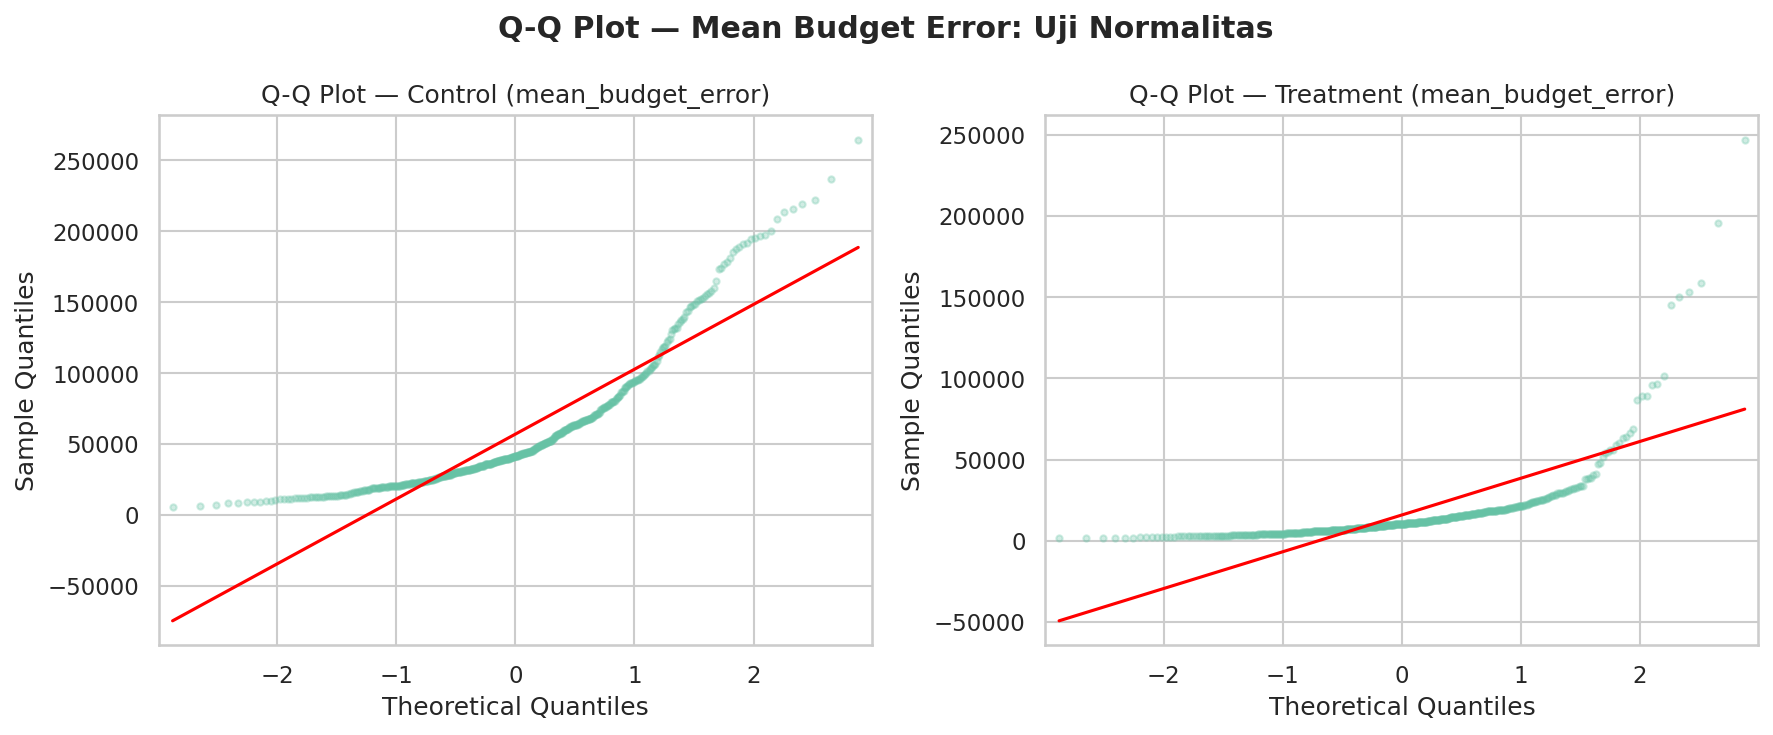
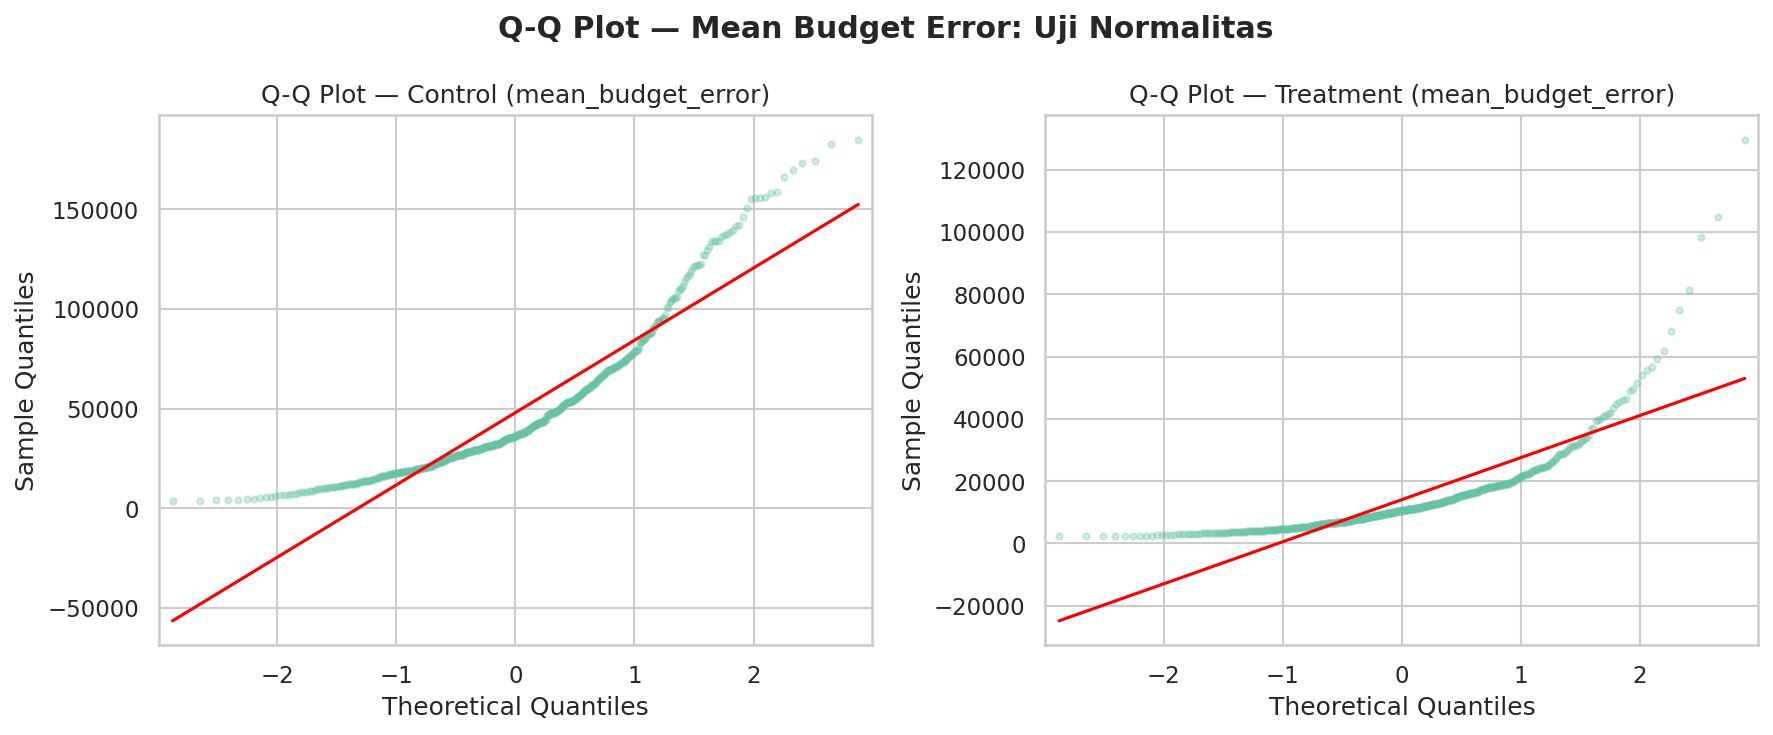
feat: rewrite A/B Testing Income Predictor budgeting report and charts

diff --git a/outputs/reports/ab_testing_income_predictor_budgeting_report.md b/outputs/reports/ab_testing_income_predictor_budgeting_report.md
@@ -52,18 +52,18 @@ membuat budget manual berdasarkan rata-rata income historis.
 | Metrik | Control | Treatment |
 |--------|---------|-----------|
 | N | 1,502 | 1,498 |
-| Mean Budget Error | Rp 56rb | Rp 15rb |
-| Median Budget Error | Rp 41rb | Rp 10rb |
-| Std Dev Budget Error | Rp 45rb | Rp 20rb |
-| Absolute Diff (T-C) | — | Rp -40rb |
-| Relative Change | — | -72.43% |
+| Mean Budget Error | Rp 47rb | Rp 14rb |
+| Median Budget Error | Rp 36rb | Rp 10rb |
+| Std Dev Budget Error | Rp 36rb | Rp 13rb |
+| Absolute Diff (T-C) | — | Rp -33rb |
+| Relative Change | — | -70.14% |
 
 ## 5. Secondary Metric: budget_adherence_rate
 
 | Metrik | Control | Treatment | Diff |
 |--------|---------|-----------|------|
-| Budget Adherence Rate | 44.91% | 42.21% | -2.70pp |
-| Over-Budget Rate | 55.09% | 57.79% | — |
+| Budget Adherence Rate | 46.17% | 43.19% | -2.98pp |
+| Over-Budget Rate | 53.83% | 56.81% | — |
 
 > **Interpretasi**: Jika budget adherence Treatment lebih rendah dari Control, hal ini tidak
 > berarti Income Predictor gagal. Akurasi budget (mean_budget_error) tidak otomatis mengubah
@@ -74,9 +74,9 @@ membuat budget manual berdasarkan rata-rata income historis.
 
 | Uji | Statistic | p-value | Hasil |
 |-----|-----------|---------|-------|
-| Shapiro-Wilk (Control) | 0.8173 | 0.000000 | Tidak Normal |
-| Shapiro-Wilk (Treatment) | 0.4756 | 0.000000 | Tidak Normal |
-| Levene | 415.8148 | 0.000000 | Tidak Homogen |
+| Shapiro-Wilk (Control) | 0.8603 | 0.000000 | Tidak Normal |
+| Shapiro-Wilk (Treatment) | 0.6782 | 0.000000 | Tidak Normal |
+| Levene | 538.1740 | 0.000000 | Tidak Homogen |
 
 > Uji utama yang dipilih: **Mann-Whitney U** (berdasarkan hasil uji asumsi di atas)
 
@@ -84,15 +84,15 @@ membuat budget manual berdasarkan rata-rata income historis.
 
 | Uji | Statistic | p-value | Keputusan | Peran |
 |-----|-----------|---------|-----------|-------|
-| Mann-Whitney U (alternative=less) | 229456 | 0.000000 | Tolak H0 | **Utama** |
-| Welch t-test (one-tailed: T < C) | -31.6231 | 0.000000 | Tolak H0 | Pendukung |
+| Mann-Whitney U (alternative=less) | 288517 | 0.000000 | Tolak H0 | **Utama** |
+| Welch t-test (one-tailed: T < C) | -33.3843 | 0.000000 | Tolak H0 | Pendukung |
 
 ## 8. Effect Size & Confidence Interval
 
-- **Cohen's d** = -1.1546 → Efek Besar (Treatment lebih baik (d negatif = budget error lebih rendah))
-- **Absolute Difference** (T-C) = Rp -40rb
-- **Relative Change** = -72.43%
-- **95% CI (Welch)**: [Rp -43rb, Rp -38rb]
+- **Cohen's d** = -1.2188 → Efek Besar (Treatment lebih baik (d negatif = budget error lebih rendah))
+- **Absolute Difference** (T-C) = Rp -33rb
+- **Relative Change** = -70.14%
+- **95% CI (Welch)**: [Rp -35rb, Rp -31rb]
 - **CI Interpretation**: Seluruh CI negatif → Treatment secara statistik memiliki budget error lebih rendah.
 
 ## 9. Power Analysis
@@ -105,18 +105,18 @@ membuat budget manual berdasarkan rata-rata income historis.
 
 | Gig Type | n_ctrl | n_treat | BE Control | BE Treatment | Rel Reduction | MW p | Indikasi |
 |----------|--------|---------|------------|--------------|---------------|------|----------|
-| content_creator | 139 | 138 | Rp 54rb | Rp 13rb | -76.7% | 0.0000 | positif |
-| freelance_desain | 230 | 229 | Rp 81rb | Rp 21rb | -73.4% | 0.0000 | positif |
-| freelance_it | 180 | 180 | Rp 108rb | Rp 28rb | -74.4% | 0.0000 | positif |
-| jualan_online | 248 | 248 | Rp 36rb | Rp 10rb | -72.1% | 0.0000 | positif |
-| kurir | 113 | 112 | Rp 36rb | Rp 11rb | -68.3% | 0.0000 | positif |
-| ojek_online | 115 | 114 | Rp 37rb | Rp 11rb | -69.2% | 0.0000 | positif |
-| pekerja_harian | 249 | 249 | Rp 44rb | Rp 13rb | -70.3% | 0.0000 | positif |
-| tutor | 228 | 228 | Rp 45rb | Rp 14rb | -69.2% | 0.0000 | positif |
+| content_creator | 139 | 138 | Rp 42rb | Rp 10rb | -75.3% | 0.0000 | positif |
+| freelance_desain | 230 | 229 | Rp 64rb | Rp 19rb | -71.0% | 0.0000 | positif |
+| freelance_it | 180 | 180 | Rp 84rb | Rp 23rb | -72.0% | 0.0000 | positif |
+| jualan_online | 248 | 248 | Rp 33rb | Rp 10rb | -70.1% | 0.0000 | positif |
+| kurir | 113 | 112 | Rp 32rb | Rp 11rb | -66.0% | 0.0000 | positif |
+| ojek_online | 115 | 114 | Rp 33rb | Rp 11rb | -66.5% | 0.0000 | positif |
+| pekerja_harian | 249 | 249 | Rp 40rb | Rp 13rb | -68.5% | 0.0000 | positif |
+| tutor | 228 | 228 | Rp 40rb | Rp 13rb | -67.5% | 0.0000 | positif |
 
 ## 11. Kesimpulan
 
-Simulasi A/B Testing menunjukkan bahwa penggunaan Income Predictor sebagai dasar Budget Planner adaptif dapat menurunkan budget error dibandingkan budgeting manual. Hal ini menunjukkan bahwa Income Predictor membantu menghasilkan rencana budget yang lebih akurat terhadap kondisi income aktual. Uji Mann-Whitney U menghasilkan p-value = 0.000000 (< alpha=0.05), sehingga H0 ditolak. Relative reduction budget error sebesar -72.43% mengindikasikan efek yang bermakna (Cohen's d = -1.1546, Besar).
+Simulasi A/B Testing menunjukkan bahwa penggunaan Income Predictor sebagai dasar Budget Planner adaptif dapat menurunkan budget error dibandingkan budgeting manual. Hal ini menunjukkan bahwa Income Predictor membantu menghasilkan rencana budget yang lebih akurat terhadap kondisi income aktual. Uji Mann-Whitney U menghasilkan p-value = 0.000000 (< alpha=0.05), sehingga H0 ditolak. Relative reduction budget error sebesar -70.14% mengindikasikan efek yang bermakna (Cohen's d = -1.2188, Besar).
 
 Namun, peningkatan akurasi budget belum otomatis menurunkan over-budget rate atau meningkatkan budget adherence, karena perilaku pengeluaran pengguna tetap dipengaruhi oleh kepatuhan terhadap rekomendasi. Dampak terhadap budget adherence dan over-budget rate perlu divalidasi lebih lanjut melalui eksperimen live.
 
